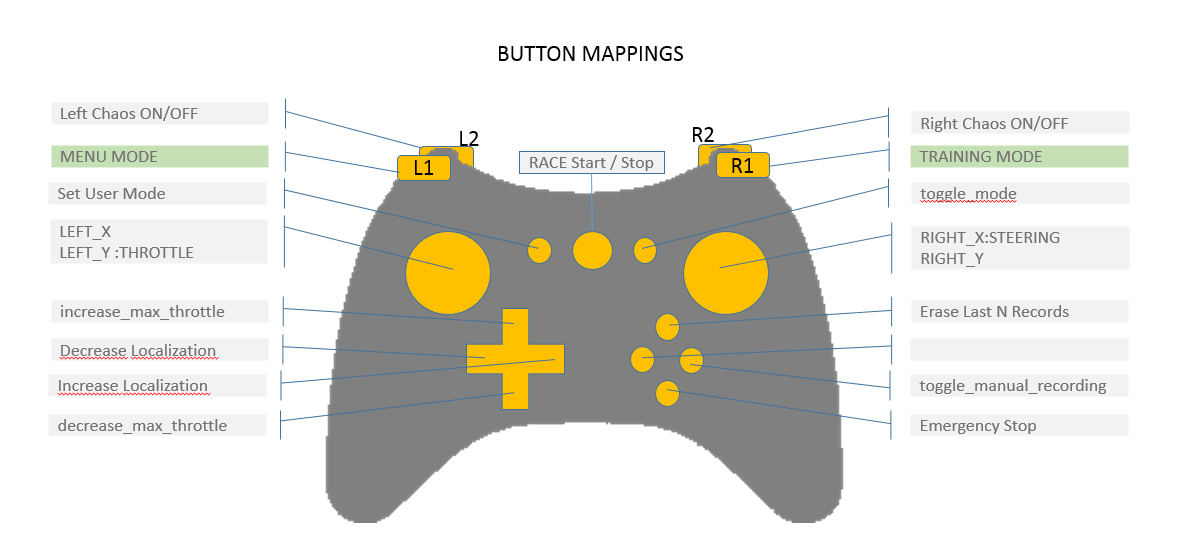
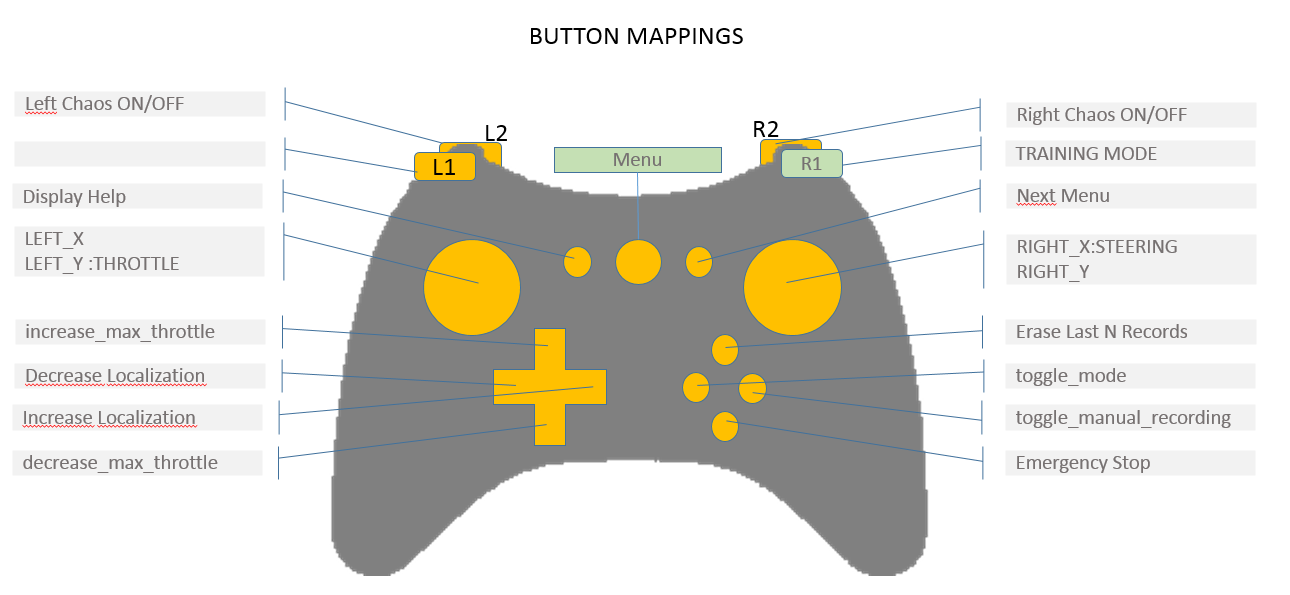
updated documentation with new menu modes and resolution of typo issues.

diff --git a/docs/parts/controllers.md b/docs/parts/controllers.md
@@ -223,28 +223,32 @@ quit
 
 Now that your controller is trusted, it should automatically connect with your Raspberry Pi when they are both turned on.  If your controller fails to connect, run the bluetoothctl steps again to reconnect.
 
+
 ## Advanced Joystick Mode
 
 The Advanced Joystick mode uses button combinations to allow more control on the car.
-In order to use the Advanced Joystick mode, you must update the manage.py file and  replace the line get_controller_js() with get_controller_js(Vobject=V)
-You will also need to modify the config.py file to add the line "JOYSTICK_ADVANCED = True 
+In order to use the Advanced Joystick mode, you must update the manage.py file and  replace the line `get_controller_js()` with `get_controller_js(Vobject=V)`
+You will also need to modify the config.py file to add the line `JOYSTICK_ADVANCED = True `
 Setting the JOYSTICK_ADVANCED = False will use the original Joystick mappings, without advanced feature.
 When activated , this mode will redefine the mappings of the joystick as per the below description :
 
-When using Advanced mode, pressing combinations of L1 and R1 button will switch the controller to one of the 5 different modes :  Default (), TRAIN (R1) , CAMERA(L1), CALIBRATE(R1+L1) and SYSTEM(L1+R1).
-Please note that not all features are working yet;the modes anticipate the creation of custom parts handling the actions.
+When using Advanced mode, pressing Home button will change the controller to the menu mode : 
+You can use the HOME2 button to change the displayed menu, and press HOME1 to get help on the menu item : 
+ CAMERA, CALIBRATE and SYSTEM.
+
+Each part can add its own menu to the menu list, allowing easy configuration of the part.
 
 
-![Default Mode](./controller_default.PNG)
-![Training Mode ( R1)](./controller_training.PNG)
+![Default Mode](./controller_default.png)
+![Training Mode ( R1)](./controller_training.png)
 
-the menu modes are available by keeping L1 pressed, then press R1 to change Menu : 
-![donkeycar](./controller_system.PNG)
-![donkeycar](./controller_camera.PNG)
-![donkeycar](./controller_calibrate.PNG)
+the menu modes are available by pressing HOME pressed, then press HOME2 to change Menu : 
+![donkeycar](./controller_system.png)
+![donkeycar](./controller_camera.png)
+![donkeycar](./controller_calibrate.png)
 
 Button names are as follow : 
-![donkeycar](./controller_buttons.PNG)
+![donkeycar](./controller_buttons.png)
 
 
 (*) : AUG_IMAGE_DRAW LEVEL : 
@@ -267,6 +271,7 @@ The below values are expected :
 (**) A part can be configured to take the LogLevelFlag as input . 
 Depending on the value configured, the part can therefore be more or less verbose, or print specific informations to the console.
 Log level flags between 0 and 30 are reserved for the parts managed in the github autorope/donkeycar. Please use higher numbers for any custom part.
+
 
 
 ## Discovering / Modifying Button and Axis Mappings for Game Controllers
